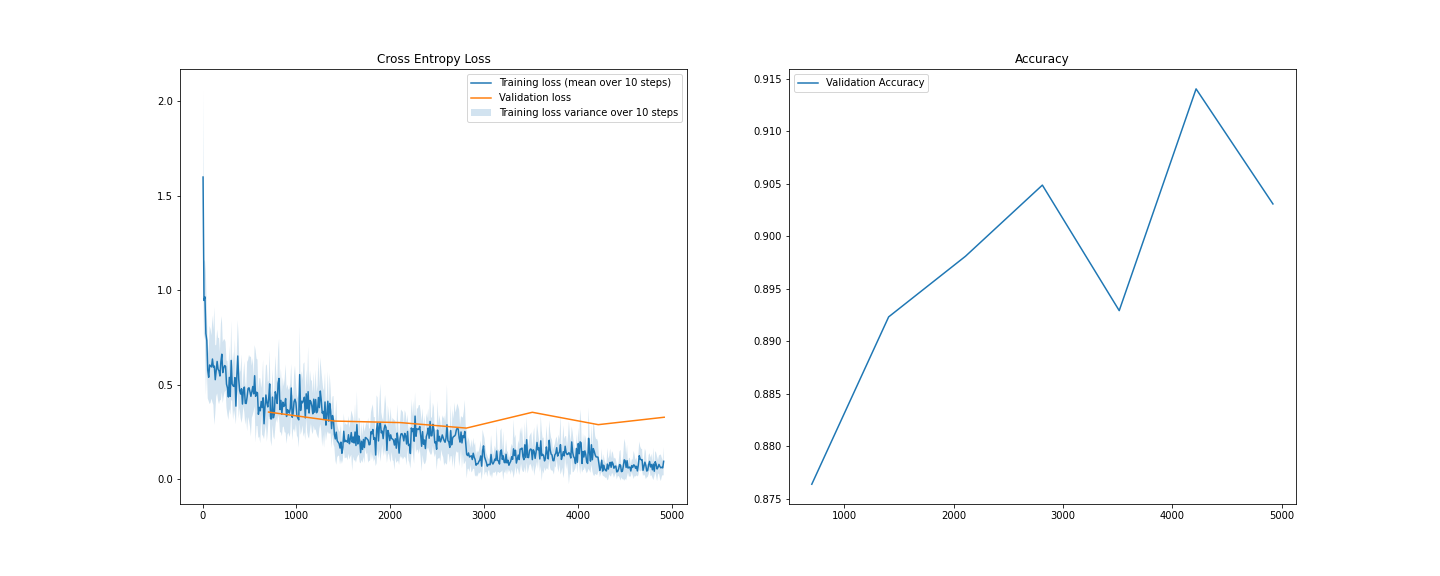
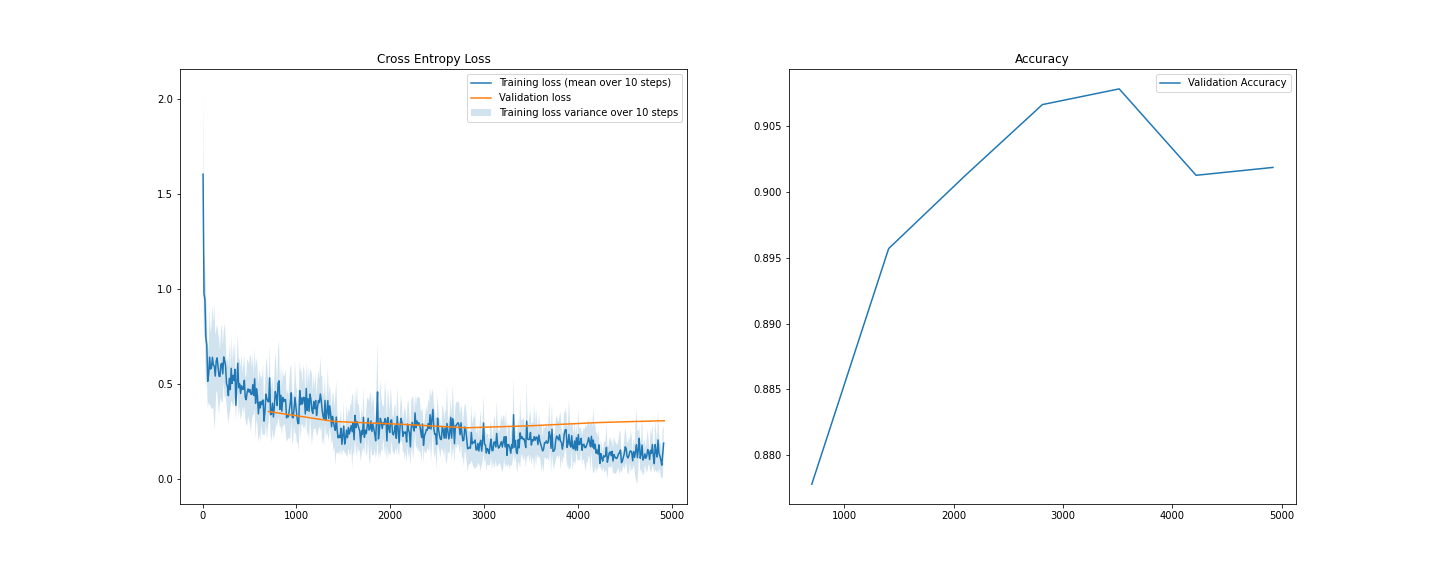
Finalising Assignment 3

diff --git a/assignment3/task3.py b/assignment3/task3.py
@@ -1,0 +1,245 @@
+import pathlib
+import matplotlib.pyplot as plt
+import utils
+from torch import nn
+import torch
+from dataloaders import load_cifar10
+from trainer import Trainer, compute_loss_and_accuracy
+from task2 import ExampleModel
+
+class StandardModel(ExampleModel):
+
+    def __init__(self,
+                 image_channels,
+                 num_classes):
+        """
+            Is called when model is initialized.
+            Args:
+                image_channels. Number of color channels in image (3)
+                num_classes: Number of classes we want to predict (10)
+
+            First Model for Task 3a with increased number of neurons
+        """
+        super().__init__(image_channels, num_classes)
+        num_filters = 64  # Set number of filters in first conv layer
+        self.num_classes = num_classes
+        # Define the convolutional layers
+        self.feature_extractor = nn.Sequential(
+            nn.Conv2d(
+                in_channels=image_channels,
+                out_channels=num_filters,
+                kernel_size=5,
+                stride=1,
+                padding=2
+            ),
+            nn.ReLU(),
+            nn.MaxPool2d(kernel_size = 2, stride = 2),
+            nn.BatchNorm2d(64),
+            nn.Conv2d(
+              in_channels = num_filters,
+              out_channels = 128,
+              kernel_size = 5,
+              stride = 1,
+              padding = 2
+            ),
+            nn.ReLU(),
+            nn.MaxPool2d(kernel_size = 2, stride = 2),
+            nn.BatchNorm2d(128),
+            nn.Conv2d(
+              in_channels = 128,
+              out_channels = 128,
+              kernel_size = 5,
+              stride = 1,
+              padding = 2
+            ),
+            nn.ReLU(),
+            nn.MaxPool2d(kernel_size = 2, stride = 2),
+            nn.BatchNorm2d(128),
+        )
+        # The output of feature_extractor will be [batch_size, num_filters, 16, 16]
+        self.num_output_features = 4*4*128
+        # Initialize our last fully connected layer
+        # Inputs all extracted features from the convolutional layers
+        # Outputs num_classes predictions, 1 for each class.
+        # There is no need for softmax activation function, as this is
+        # included with nn.CrossEntropyLoss
+        self.classifier = nn.Sequential(
+            nn.Linear(self.num_output_features, 64),
+            nn.ReLU(),
+            nn.BatchNorm1d(64),
+            nn.Linear(64, 10)
+        )
+
+
+class DropoutModel(ExampleModel):
+
+    def __init__(self,
+                 image_channels,
+                 num_classes):
+        """
+            Is called when model is initialized.
+            Args:
+                image_channels. Number of color channels in image (3)
+                num_classes: Number of classes we want to predict (10)
+
+        Second Model for Task 3a with increased number of neurons and dropout layer
+        """
+        super().__init__(image_channels, num_classes)
+        num_filters = 64  # Set number of filters in first conv layer
+        self.num_classes = num_classes
+        # Define the convolutional layers
+        self.feature_extractor = nn.Sequential(
+            nn.Conv2d(
+                in_channels=image_channels,
+                out_channels=num_filters,
+                kernel_size=5,
+                stride=1,
+                padding=2
+            ),
+            nn.ReLU(),
+            nn.MaxPool2d(kernel_size = 2, stride = 2),
+            nn.BatchNorm2d(64),
+            nn.Dropout(0.2),
+            nn.Conv2d(
+              in_channels = num_filters,
+              out_channels = 128,
+              kernel_size = 5,
+              stride = 1,
+              padding = 2
+            ),
+            nn.ReLU(),
+            nn.MaxPool2d(kernel_size = 2, stride = 2),
+            nn.BatchNorm2d(128),
+            nn.Dropout(0.2),
+            nn.Conv2d(
+              in_channels = 128,
+              out_channels = 128,
+              kernel_size = 5,
+              stride = 1,
+              padding = 2
+            ),
+            nn.ReLU(),
+            nn.MaxPool2d(kernel_size = 2, stride = 2),
+            nn.BatchNorm2d(128),
+            nn.Dropout(0.2),
+        )
+        # The output of feature_extractor will be [batch_size, num_filters, 16, 16]
+        self.num_output_features = 4*4*128
+        # Initialize our last fully connected layer
+        # Inputs all extracted features from the convolutional layers
+        # Outputs num_classes predictions, 1 for each class.
+        # There is no need for softmax activation function, as this is
+        # included with nn.CrossEntropyLoss
+        self.classifier = nn.Sequential(
+            nn.Linear(self.num_output_features, 64),
+            nn.ReLU(),
+            nn.BatchNorm1d(64),
+            nn.Linear(64, 10)
+        )
+
+
+class MomentumTrainer(Trainer):
+    """
+    Trainer for Task3e with momentum
+    """
+    def __init__(self, *args, **kwargs):
+        super(FinalTrainer, self).__init__(*args, **kwargs)
+        # Define our optimizer. SGD = Stochastich Gradient Descent
+        self.optimizer = torch.optim.SGD(self.model.parameters(),
+                                        self.learning_rate,
+                                         momentum=0.7)
+
+
+def create_plots(trainer_list, trainer_labels, name: str):
+    plot_path = pathlib.Path("plots")
+    plot_path.mkdir(exist_ok=True)
+    # Save plots and show them
+    plt.figure(figsize=(20, 8))
+    plt.subplot(1, 2, 1)
+    plt.title("Cross Entropy Loss")
+    for trainer, label in zip(trainer_list, trainer_labels):
+        utils.plot_loss(trainer.train_history["loss"], label=f"Training loss {label}", npoints_to_average=10)
+        utils.plot_loss(trainer.validation_history["loss"], label=f"Validation loss {label}")
+    plt.legend()
+    plt.subplot(1, 2, 2)
+    plt.title("Accuracy")
+    for trainer, label in zip(trainer_list, trainer_labels):
+        utils.plot_loss(trainer.validation_history["accuracy"], label=f"Validation Accuracy {label}")
+    plt.legend()
+    plt.savefig(f"{name}.png")
+    plt.show()
+
+
+def main():
+    # Set the random generator seed (parameters, shuffling etc).
+    # You can try to change this and check if you still get the same result! 
+    utils.set_seed(0)
+    epochs = 10
+    batch_size = 64
+    learning_rate = 0.1
+    early_stop_count = 4
+
+    # initialize dataloaders with and without data augmentation
+    dataloaders = load_cifar10(batch_size)
+    dataloaders_data_augmentation = load_cifar10(batch_size, data_augmentation=0.3)
+
+    base_model = StandardModel(image_channels=3, num_classes=10)
+    base_trainer = Trainer(
+        batch_size,
+        learning_rate,
+        early_stop_count,
+        epochs,
+        base_model,
+        dataloaders
+    )
+    print("Start training base model Task 2")
+    base_trainer.train()
+
+    # Task 3a training a model with increased number of hidden neurons, batch normalization and data augmentation
+    standard_model = StandardModel(image_channels=3, num_classes=10)
+    trainer_with_data_augmentation = Trainer(
+        batch_size,
+        learning_rate,
+        early_stop_count,
+        epochs,
+        standard_model,
+        dataloaders_data_augmentation
+    )
+    print("Start training model with data augmentation")
+    trainer_with_data_augmentation.train()
+
+    # Task 3a training a model with increased number of hidden neurons, batch normalization and additional dropout
+    # layers
+    dropout_model = DropoutModel(image_channels=3, num_classes=10)
+    trainer_with_dropout = Trainer(
+        batch_size,
+        learning_rate,
+        early_stop_count,
+        epochs,
+        dropout_model,
+        dataloaders
+    )
+    print("Start training model with dropout")
+    trainer_with_dropout.train()
+
+    create_plots([trainer_with_data_augmentation], [""], "task3b_best_model")
+    create_plots([base_trainer, trainer_with_dropout], ["Task 2", "with Data Augmentation"], "task3d_compare_best_model")
+
+    # reset dropout_model
+    dropout_model = DropoutModel(image_channels=3, num_classes=10)
+    trainer_with_momentum = MomentumTrainer(
+        batch_size,
+        learning_rate,
+        early_stop_count,
+        epochs,
+        dropout_model,
+        dataloaders_data_augmentation
+    )
+    print("Start training model with momentum")
+    trainer_with_momentum.train()
+
+    create_plots([trainer_with_momentum], [""], "task3e_final_model")
+
+
+if __name__ == "__main__":
+    main()

diff --git a/assignment3/task4a.py b/assignment3/task4a.py
@@ -50,11 +50,13 @@ def load_cifar10(batch_size: int, validation_fraction: float = 0.1
         transforms.Resize((224, 224)),
         transforms.ToTensor(),
         transforms.Normalize(mean, std),
+        transforms.RandomHorizontalFlip(p=0.3)
     ])
     transform_test = transforms.Compose([
         transforms.Resize((224, 224)),
         transforms.ToTensor(),
-        transforms.Normalize(mean, std)
+        transforms.Normalize(mean, std),
+        transforms.RandomHorizontalFlip(p=0.3)
     ])
     data_train = datasets.CIFAR10('data/cifar10',
                                   train=True,
@@ -110,7 +112,7 @@ def create_plots(trainer: Trainer, name: str):
     plt.show()
 
 
-if __name__ == "__main__":
+def main():
     # Set the random generator seed (parameters, shuffling etc).
     # You can try to change this and check if you still get the same result!
     utils.set_seed(0)
@@ -130,3 +132,7 @@ if __name__ == "__main__":
     )
     trainer.train()
     create_plots(trainer, "task4a_transfer_learning")
+
+
+if __name__ == "__main__":
+    main()

diff --git a/assignment3/trainer.py b/assignment3/trainer.py
@@ -183,8 +183,23 @@ class Trainer:
                     self.save_model()
                     if self.should_early_stop():
                         print("Early stopping.")
-                        return
+                        break
             bar.update(self.epoch+1)
+
+            if self.should_early_stop():
+                break
+        # print out final values
+        train_loss, train_acc = compute_loss_and_accuracy(
+            self.dataloader_train, self.model, self.loss_criterion
+        )
+        val_loss, val_acc = compute_loss_and_accuracy(
+            self.dataloader_val, self.model, self.loss_criterion
+        )
+        test_loss, test_acc = compute_loss_and_accuracy(
+            self.dataloader_test, self.model, self.loss_criterion
+        )
+        print(f"Finished training with: training loss: {round(train_loss, 4)}, training accuracy: {round(train_acc, 4)}, "
+              f"validation accuracy: {round(val_acc, 4)}, test accuracy: {round(test_acc, 4)}")
 
     def save_model(self):
         def is_best_model():

diff --git a/assignment3/dataloaders.py b/assignment3/dataloaders.py
@@ -9,17 +9,19 @@ mean = (0.5, 0.5, 0.5)
 std = (.25, .25, .25)
 
 
-def load_cifar10(batch_size: int, validation_fraction: float = 0.1
-                 ) -> typing.List[torch.utils.data.DataLoader]:
+def load_cifar10(batch_size: int, validation_fraction: float = 0.1, data_augmentation: float = 0
+                 ) -> typing.List[torch.utils.data.DataLoader,]:
     # Note that transform train will apply the same transform for
     # validation!
     transform_train = transforms.Compose([
         transforms.ToTensor(),
         transforms.Normalize(mean, std),
+        transforms.RandomHorizontalFlip(p=data_augmentation)
     ])
     transform_test = transforms.Compose([
         transforms.ToTensor(),
-        transforms.Normalize(mean, std)
+        transforms.Normalize(mean, std),
+        transforms.RandomHorizontalFlip(p=data_augmentation)
     ])
     data_train = datasets.CIFAR10('data/cifar10',
                                   train=True,

diff --git a/assignment3/task2.py b/assignment3/task2.py
@@ -18,7 +18,6 @@ class ExampleModel(nn.Module):
                 num_classes: Number of classes we want to predict (10)
         """
         super().__init__()
-        # TODO: Implement this function (Task  2a)
         num_filters = 32  # Set number of filters in first conv layer
         self.num_classes = num_classes
         # Define the convolutional layers
@@ -70,7 +69,6 @@ class ExampleModel(nn.Module):
         Args:
             x: Input image, shape: [batch_size, 3, 32, 32]
         """
-        # TODO: Implement this function (Task  2a)
         batch_size = x.shape[0]
         x = self.feature_extractor(x)
         x = x.view(-1, 4*4*128)

diff --git a/assignment3/create_submission_zip.py b/assignment3/create_submission_zip.py
@@ -22,10 +22,11 @@ def query(question, options):
 files_to_include = {
     "task2": [".py"],
     "task2_train": [".ipynb"],
-    "task4b": [".py"],
+    "task3": [".py"],
+    "task4a": [".py"],
+    "task4bc": [".py"],
     "trainer": [".py"],
     "utils": [".py"],
-    "mnist": [".py"],
     "dataloaders": [".py"]
 }
 zipfile_path = "assignment_code.zip"
